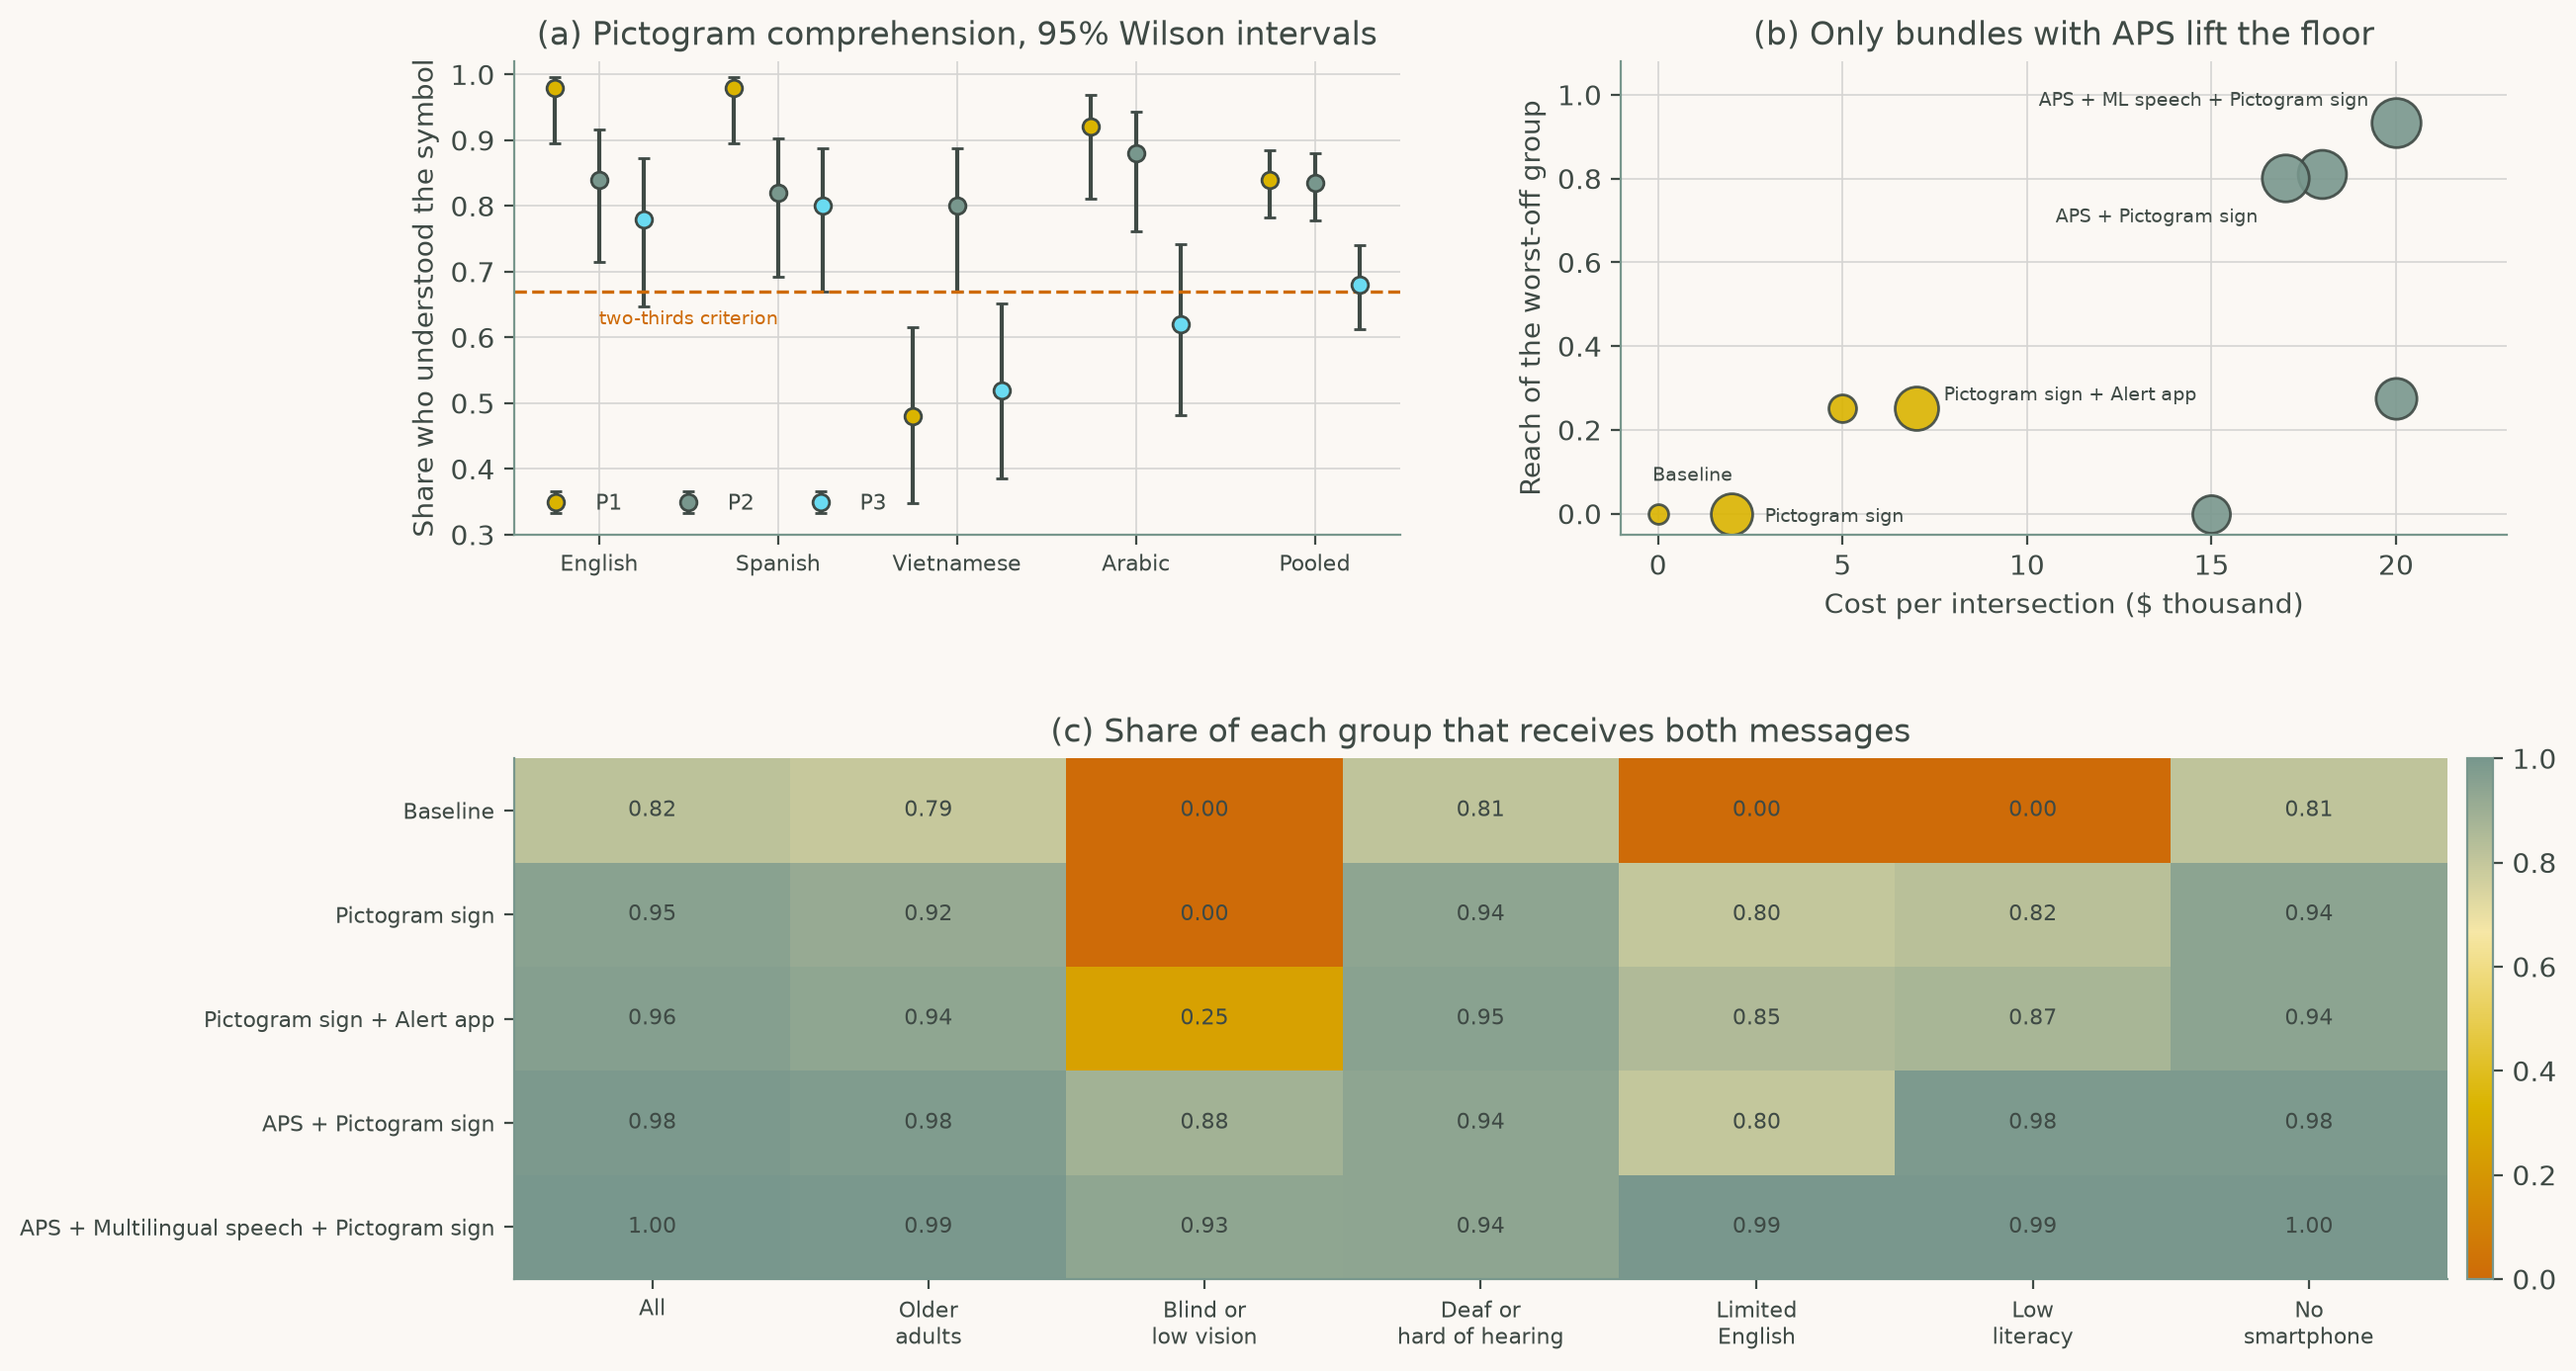
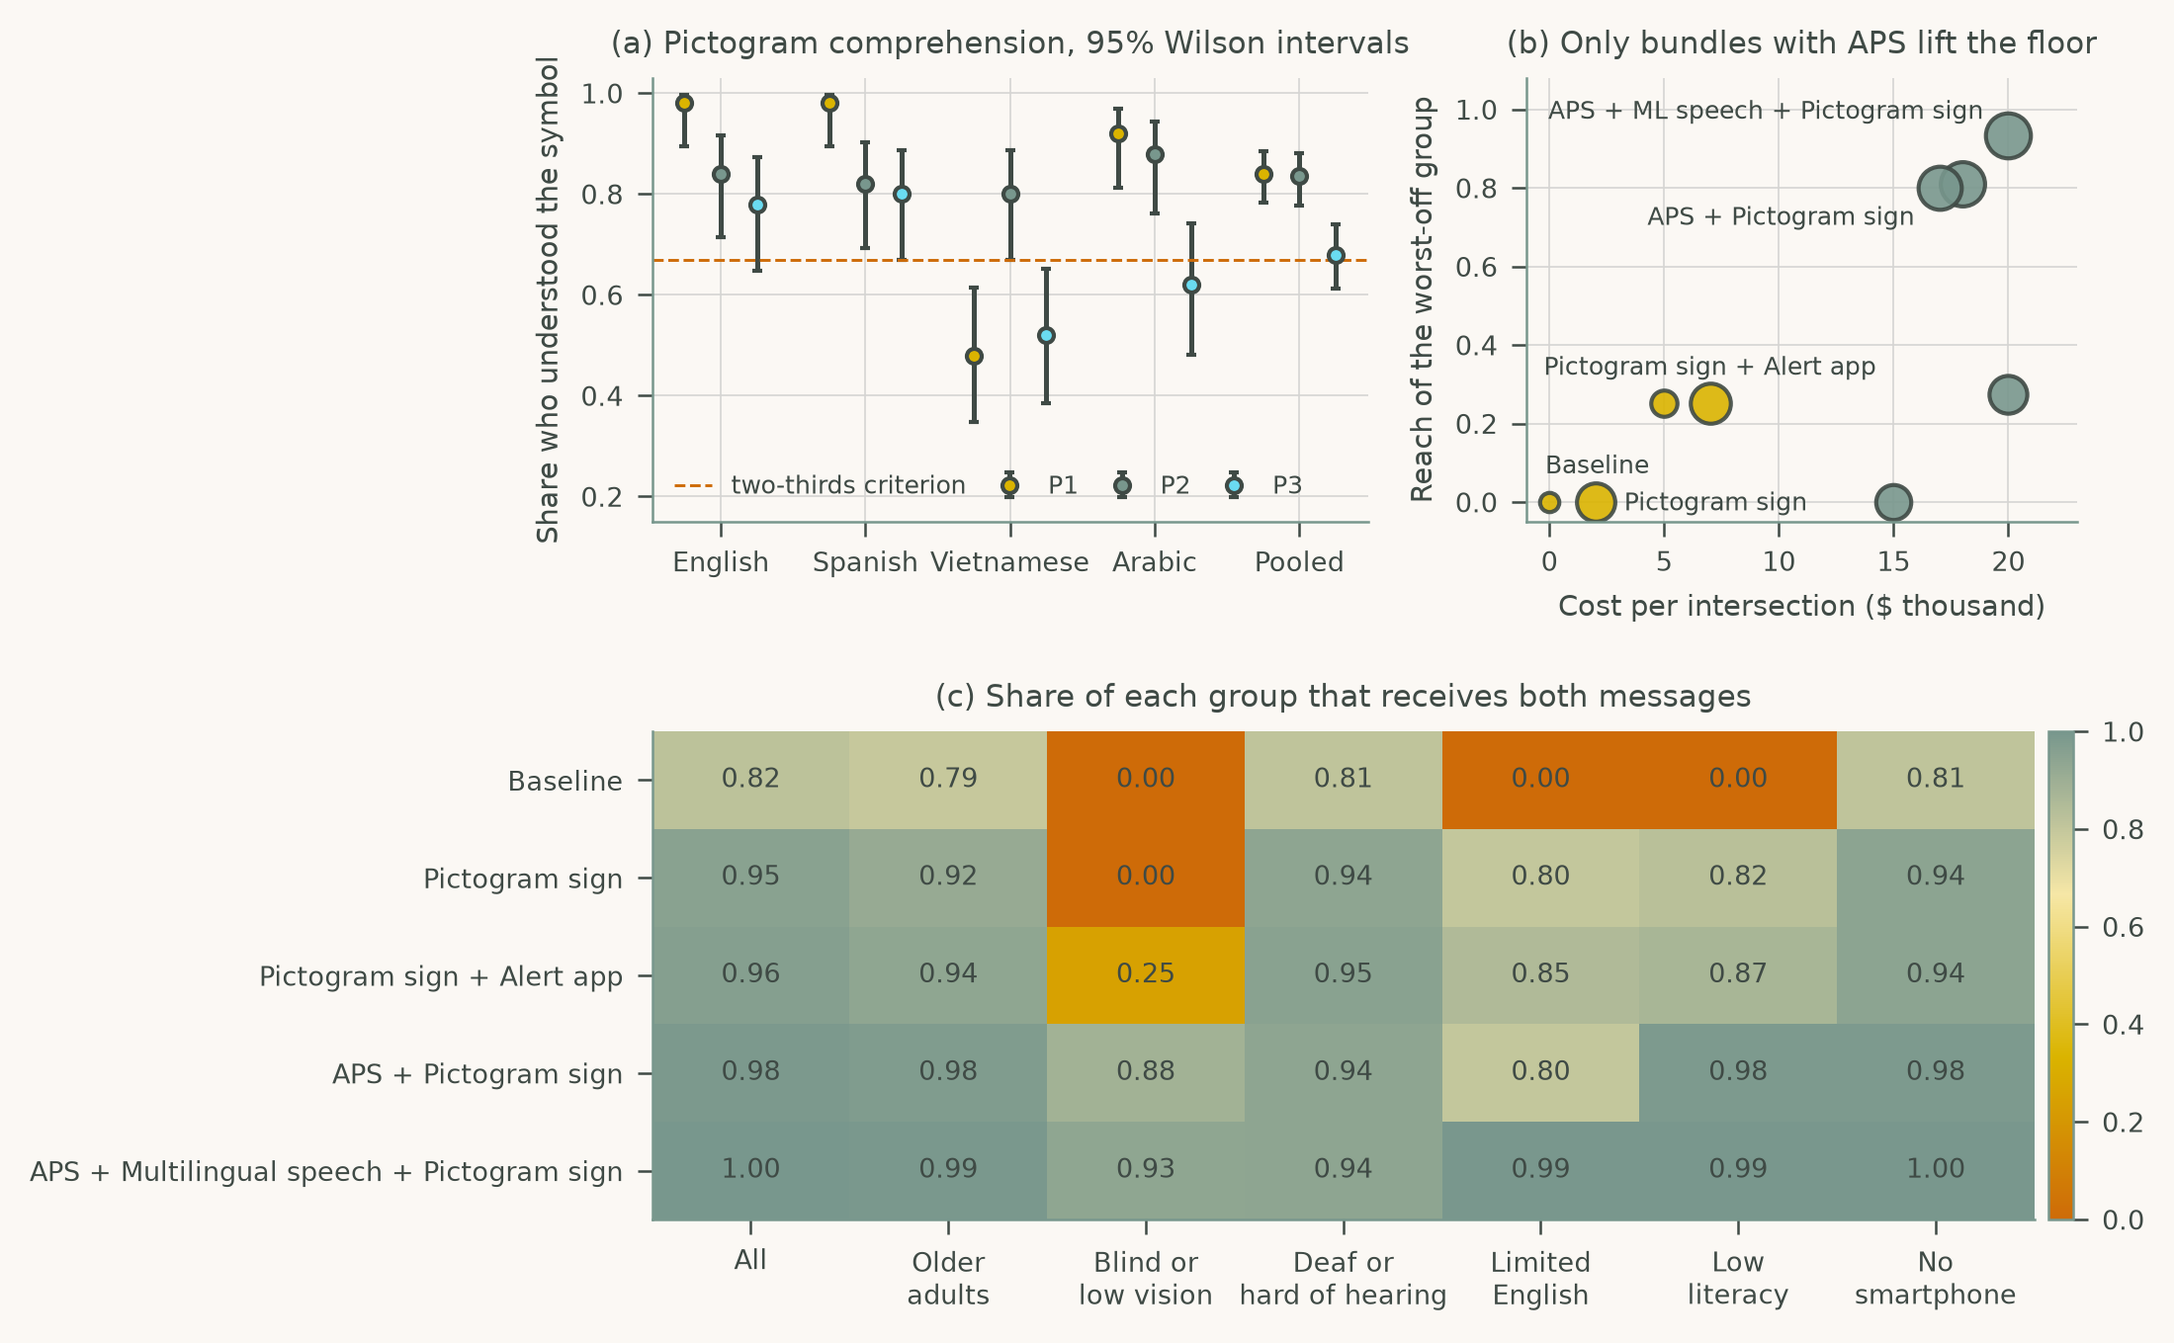
Redraw Chapter 8 figures at print size with readable type

diff --git a/chapters/ch08_vulnerable_road_users/cs2_inclusive_design.py b/chapters/ch08_vulnerable_road_users/cs2_inclusive_design.py
@@ -140,9 +140,14 @@ plt.rcParams.update({
     "xtick.color": INK, "ytick.color": INK,
     "figure.facecolor": PAPER, "axes.facecolor": PAPER,
     "axes.spines.top": False, "axes.spines.right": False,
-    "axes.grid": True, "grid.color": GRID, "grid.linewidth": 0.6})
-fig = plt.figure(figsize=(13, 8.0))
-gs = fig.add_gridspec(2, 2, height_ratios=[1, 1.1], hspace=0.45, wspace=0.25)
+    "axes.grid": True, "grid.color": GRID, "grid.linewidth": 0.4,
+    "font.size": 7, "axes.titlesize": 7.5, "axes.labelsize": 7, "legend.fontsize": 6.5,
+    "xtick.labelsize": 6.5, "ytick.labelsize": 6.5, "axes.linewidth": 0.6,
+    "xtick.major.width": 0.6, "ytick.major.width": 0.6, "lines.linewidth": 1.2,
+    "legend.frameon": False})
+fig = plt.figure(figsize=(6.2, 5.0))
+gs = fig.add_gridspec(2, 2, height_ratios=[1, 1.1], width_ratios=[1.3, 1], hspace=0.45,
+                      wspace=0.25)
 a0, a2 = fig.add_subplot(gs[0, 0]), fig.add_subplot(gs[0, 1])
 a1 = fig.add_subplot(gs[1, :])
 groups = LANG + ["Pooled"]                                       # (a) comprehension
@@ -150,40 +155,40 @@ for k, (sym, c) in enumerate([("P1", GOLD), ("P2", SAGE), ("P3", SKY)]):
     t = test[test.symbol == sym].set_index("group").loc[groups]
     x = np.arange(len(groups)) + (k - 1) * 0.25
     a0.errorbar(x, t.share, yerr=[t.share - t.lo, t.hi - t.share], fmt="o", color=c,
-                mec=INK, ms=6, capsize=2, ecolor=INK, label=sym)
-a0.axhline(CRIT, color=RUST, ls="--", lw=1.2)
-a0.text(0.5, CRIT - 0.05, "two-thirds criterion", fontsize=7, color=RUST, ha="center")
-a0.set_xticks(np.arange(len(groups)), groups, fontsize=8)
-a0.set(ylim=(0.3, 1.02), ylabel="Share who understood the symbol",
+                mec=INK, ms=3.6, capsize=1.2, ecolor=INK, label=sym)
+a0.axhline(CRIT, color=RUST, ls="--", lw=0.7, label="two-thirds criterion")
+a0.set_xticks(np.arange(len(groups)), groups, fontsize=6.5)
+a0.set(ylim=(0.15, 1.03), ylabel="Share who understood the symbol",
        title="(a) Pictogram comprehension, 95% Wilson intervals")
-a0.legend(fontsize=8, frameon=False, loc="lower left", ncol=3)
+a0.legend(fontsize=6, loc="lower left", ncol=4, handlelength=1.5,
+          columnspacing=1.0)
 cm = LinearSegmentedColormap.from_list("reach", [RUST, GOLD, "#F6E7A6", SAGE])  # (b) reach
 im = a1.imshow(table.to_numpy(), cmap=cm, vmin=0, vmax=1, aspect="auto")
 for i in range(table.shape[0]):
     for j in range(table.shape[1]):
-        a1.text(j, i, f"{table.iat[i, j]:.2f}", ha="center", va="center", fontsize=8)
+        a1.text(j, i, f"{table.iat[i, j]:.2f}", ha="center", va="center", fontsize=6.5)
 WRAP = {"Older adults": "Older\nadults", "Blind or low vision": "Blind or\nlow vision",
         "Deaf or hard of hearing": "Deaf or\nhard of hearing",
         "Limited English": "Limited\nEnglish", "Low literacy": "Low\nliteracy",
         "No smartphone": "No\nsmartphone"}
-a1.set_xticks(range(table.shape[1]), [WRAP.get(c, c) for c in table.columns], fontsize=8)
-a1.set_yticks(range(table.shape[0]), table.index, fontsize=8)
+a1.set_xticks(range(table.shape[1]), [WRAP.get(c, c) for c in table.columns], fontsize=6.5)
+a1.set_yticks(range(table.shape[0]), table.index, fontsize=6.5)
 a1.grid(False)
 a1.set_title("(c) Share of each group that receives both messages")
 fig.colorbar(im, ax=a1, fraction=0.02, pad=0.01)
 for _, r in cands.iterrows():                                    # (c) worst-off group
-    a2.plot(r.cost_k, r.min_group_reach, "o", ms=6 + 12 * (r.mean_reach - 0.8) / 0.2,
+    a2.plot(r.cost_k, r.min_group_reach, "o", ms=4 + 7 * (r.mean_reach - 0.8) / 0.2,
             color=SAGE if "APS" in r.bundle else GOLD, mec=INK, alpha=0.9)
-LABEL = {"Baseline": (-2, 12, "left"), "Pictogram sign": (12, -3, "left"),
-         "Pictogram sign + Alert app": (10, 3, "left"),
-         "APS + Pictogram sign": (-10, -16, "right"),
-         "APS + Multilingual speech + Pictogram sign": (-10, 6, "right")}
+LABEL = {"Baseline": (-1, 7, "left"), "Pictogram sign": (7, -2, "left"),
+         "Pictogram sign + Alert app": (0, 7, "center"),
+         "APS + Pictogram sign": (-6, -9, "right"),
+         "APS + Multilingual speech + Pictogram sign": (-6, 4, "right")}
 for _, r in cands.iterrows():
     if r.bundle in LABEL:
         dx, dy, ha = LABEL[r.bundle]
         a2.annotate(r.bundle.replace("Multilingual speech", "ML speech"),
                     (r.cost_k, r.min_group_reach), xytext=(dx, dy), ha=ha,
-                    textcoords="offset points", fontsize=7)
+                    textcoords="offset points", fontsize=6)
 a2.set(xlabel="Cost per intersection ($ thousand)", ylabel="Reach of the worst-off group",
        xlim=(-1, 23), ylim=(-0.05, 1.08), title="(b) Only bundles with APS lift the floor")
-fig.savefig("chap08_fig02_inclusive_design.png", dpi=200, bbox_inches="tight")
+fig.savefig("chap08_fig02_inclusive_design.png", dpi=300, bbox_inches="tight")

diff --git a/chapters/ch08_vulnerable_road_users/cs1_v2p_alerts.py b/chapters/ch08_vulnerable_road_users/cs1_v2p_alerts.py
@@ -91,34 +91,38 @@ plt.rcParams.update({
     "xtick.color": INK, "ytick.color": INK,
     "figure.facecolor": PAPER, "axes.facecolor": PAPER,
     "axes.spines.top": False, "axes.spines.right": False,
-    "axes.grid": True, "grid.color": GRID, "grid.linewidth": 0.6})
-fig, ax = plt.subplots(1, 3, figsize=(13, 4.2))
+    "axes.grid": True, "grid.color": GRID, "grid.linewidth": 0.4,
+    "font.size": 7, "axes.titlesize": 7.5, "axes.labelsize": 7, "legend.fontsize": 6.5,
+    "xtick.labelsize": 6.5, "ytick.labelsize": 6.5, "axes.linewidth": 0.6,
+    "xtick.major.width": 0.6, "ytick.major.width": 0.6, "lines.linewidth": 1.2,
+    "legend.frameon": False})
+fig, ax = plt.subplots(1, 3, figsize=(6.2, 2.45))
 # (a) hit vs false alerts
 for sigma, c in [(1.0, SAGE), (3.0, GOLD), (5.0, RUST)]:
     res = pd.DataFrame([run(t, sigma=sigma) for t in taus])
-    ax[0].plot(res.fa_per100, res.hit, "-", color=c, lw=2, label=f"{sigma:.0f}-m error")
+    ax[0].plot(res.fa_per100, res.hit, "-", color=c, lw=1.2, label=f"{sigma:.0f}-m error")
     r3 = res.iloc[np.argmin(np.abs(res.tau - 3.5))]
-    ax[0].plot(r3.fa_per100, r3.hit, "o", color=c, mec=INK, ms=6)
+    ax[0].plot(r3.fa_per100, r3.hit, "o", color=c, mec=INK, ms=3.6)
 ax[0].set(xlabel="False alerts per 100 encounters", ylabel="Share of dangerous "
           "encounters alerted", xlim=(0, 40), title="(a) Detection vs. false alerts")
-ax[0].legend(fontsize=8, frameon=False, loc="lower right")
-ax[0].text(12, 0.55, "dots: threshold 3.5 s", fontsize=7)
+ax[0].legend(fontsize=6.5, loc="lower right")
+ax[0].text(12, 0.55, "dots: threshold 3.5 s", fontsize=6)
 for latency, ls in [(0.3, "-"), (1.0, "--")]:                       # (b) protection vs tau
     for cw, c in [(True, RUST), (False, SAGE)]:
         p = [run(t, latency=latency, cry_wolf=cw)["prevented"] for t in taus]
-        ax[1].plot(taus, p, ls, color=c, lw=2,
-                   label=f"{'with' if cw else 'no'} cry-wolf, {latency:.1f}-s latency")
+        ax[1].plot(taus, p, ls, color=c, lw=1.2,
+                   label=f"{'with' if cw else 'no'} cry-wolf, {latency:.1f} s")
 ax[1].set(xlabel="Alert threshold (s to conflict)",
           ylabel="Dangerous encounters prevented",
-          ylim=(0, 1), title="(b) False alerts set the optimum")
-ax[1].legend(fontsize=7, frameon=False, loc="upper right")
+          ylim=(0, 1), title="(b) The optimal threshold")
+ax[1].legend(fontsize=6, loc="center right", bbox_to_anchor=(1, 0.66))
 x = np.arange(3)                                                    # (c) who benefits
 for k, (mode, c) in enumerate([("visual", SKY), ("auditory", GOLD), ("haptic", SAGE)]):
     vals = [who[(who.group == g) & (who.modality == mode)].prevented.iloc[0]
             for g in GROUPS]
     ax[2].bar(x + (k - 1) * 0.26, vals, 0.25, color=c, label=mode, edgecolor=INK, lw=0.5)
-ax[2].set_xticks(x, [g.replace(" ", "\n") for g in GROUPS], fontsize=8)
-ax[2].set(ylim=(0, 0.8), ylabel="Dangerous encounters prevented",
-          title="(c) The best alert depends on the user")
-ax[2].legend(fontsize=8, frameon=False, loc="upper left", ncol=3)
-fig.tight_layout(); fig.savefig("chap08_fig01_v2p_alerts.png", dpi=200)
+ax[2].set_xticks(x, [g.replace(" ", "\n") for g in GROUPS], fontsize=6)
+ax[2].set(ylim=(0, 1.0), ylabel="Dangerous encounters prevented",
+          title="(c) Best alert by user")
+ax[2].legend(fontsize=6.5, loc="upper right")
+fig.tight_layout(); fig.savefig("chap08_fig01_v2p_alerts.png", dpi=300)
